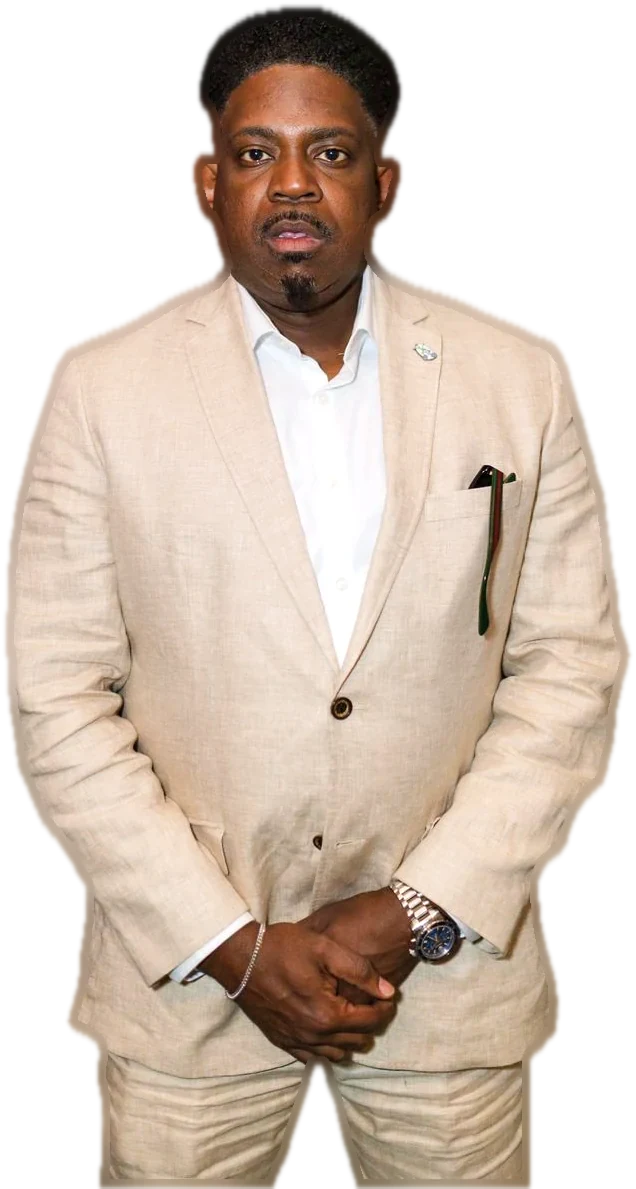
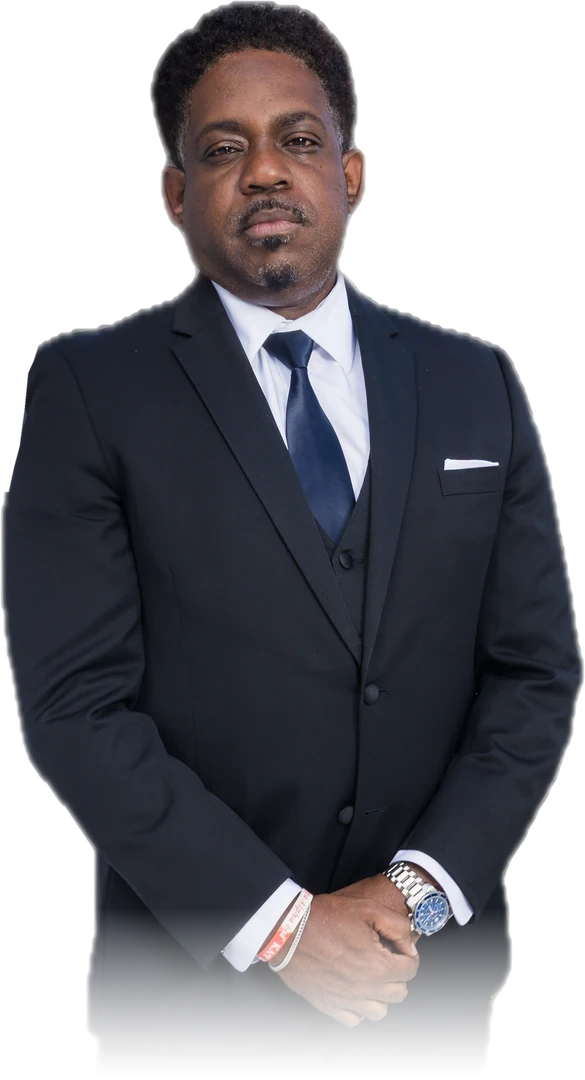
Model: pro cutout (black 3-piece); culture section: 2026 HBCU Achiever Awards photos; remove ACLU hero chip

diff --git a/index.html b/index.html
@@ -59,7 +59,6 @@
     <ul class="hero__chips" aria-label="Highlights">
       <li class="chip chip--a"><b data-count="95">95</b><span>cities, one day of action</span></li>
       <li class="chip chip--b"><b>2</b><span>presidential campaigns</span></li>
-      <li class="chip chip--c"><svg class="dia" viewBox="0 0 20 20" aria-hidden="true"><path d="M10 1 19 10 10 19 1 10Z"/></svg><span>ACLU of Florida</span></li>
     </ul>
   </div>
   <div class="hero__copy">
@@ -162,7 +161,7 @@
       <svg class="model__lines" aria-hidden="true"><path/><path/><path/><path/><path/><path/></svg>
       <figure class="model__fig">
         <div class="model__diamond" aria-hidden="true"><i></i><i></i><i></i></div>
-        <img class="model__cut model__photo" src="assets/img/model-photo.jpg" srcset="assets/img/model-photo-s.jpg 900w, assets/img/model-photo.jpg 1494w" sizes="(max-width:860px) 80vw, 440px" alt="Chris Smith in a white suit and black tie at sunset" loading="lazy">
+        <img class="model__cut model__cutpro" src="assets/img/chris-3pc.webp" srcset="assets/img/chris-3pc-s.webp 358w, assets/img/chris-3pc.webp 585w" sizes="(max-width:860px) 80vw, 440px" alt="Chris Smith in a black three piece suit and navy tie" loading="lazy">
         <span class="model__hub" aria-hidden="true"></span>
       </figure>
       <ol class="pillars"><li class="pillar" style="--i:0"><span class="pillar__n">01</span><h3>Trusted messengers</h3><p>Organizing starts with the people a community already listens to. Relationships first, scripts second.</p></li>
@@ -300,7 +299,7 @@
 <!-- ============ BEYOND ============ -->
 <section class="beyond" aria-labelledby="beyond-h">
   <div class="wrap beyond__grid">
-    <figure class="beyond__img"><img src="assets/img/vi-white.jpg" alt="Chris Smith in a white suit and black tie" style="object-position:48% 16%" loading="lazy" decoding="async"></figure>
+    <figure class="beyond__img"><img src="assets/img/hbcu-chris.jpg" alt="Chris Smith in a royal blue suit at the 2026 HBCU Achiever Awards" style="object-position:50% 18%" loading="lazy" decoding="async"></figure>
     <div class="beyond__copy">
       <p class="kicker kicker--cream"><svg class="dia" viewBox="0 0 20 20" aria-hidden="true"><path d="M10 1 19 10 10 19 1 10Z"/></svg> The culture effect</p>
       <h2 id="beyond-h" class="h2 h2--cream">Where culture meets the <em>ballot box.</em></h2>
@@ -308,7 +307,7 @@
       <div class="beyond__row">
         <figure><img src="assets/img/vi-mike-s.jpg" alt="Killer Mike on the trail with Chris Smith" style="object-position:54% 24%" loading="lazy" decoding="async"><figcaption>Killer Mike town hall</figcaption></figure>
         <figure><img src="assets/img/vi-bcu-s.jpg" alt="Students at Bethune Cookman University" style="object-position:54% 21%" loading="lazy" decoding="async"><figcaption>Bethune-Cookman</figcaption></figure>
-        <figure><img src="assets/img/vi-hbcu-s.jpg" alt="HBCU Achiever Awards honorees" style="object-position:50% 0%" loading="lazy" decoding="async"><figcaption>HBCU Achiever Awards</figcaption></figure>
+        <figure><img src="assets/img/hbcu-stage-s.jpg" alt="Chris Smith presenting an award at the HBCU Achiever Awards" style="object-position:48% 30%" loading="lazy" decoding="async"><figcaption>HBCU Achiever Awards 2026</figcaption></figure>
       </div>
     </div>
   </div>

diff --git a/assets/css/site.css b/assets/css/site.css
@@ -601,3 +601,9 @@ ul,ol{margin:0;padding:0;list-style:none}
 .hero__first{white-space:nowrap}
 .foot__the{font:italic 400 clamp(36px,6vw,96px)/1 var(--f-serif);color:var(--rose);text-align:center;margin:10px 0 -.15em;transform:rotate(-4deg)}
 @media (max-width:560px){.nav__brand em.the{display:inline}.nav__brand{font-size:15px}}
+/* model: professional cutout (black three-piece) */
+.model__fig{align-items:flex-end}
+.model__cutpro{width:100%;max-width:470px;height:auto;filter:drop-shadow(0 30px 40px rgba(0,0,0,.45))!important;-webkit-mask-image:none!important;mask-image:none!important;position:relative;z-index:1}
+.model__fig::before{top:40%;width:115%;background:radial-gradient(closest-side,rgba(228,91,111,.5),rgba(155,27,48,.2) 55%,transparent)}
+.model__hub{top:auto;bottom:24%}
+@media (max-width:860px){.model__cutpro{max-width:340px;margin:0 auto 10px}}
